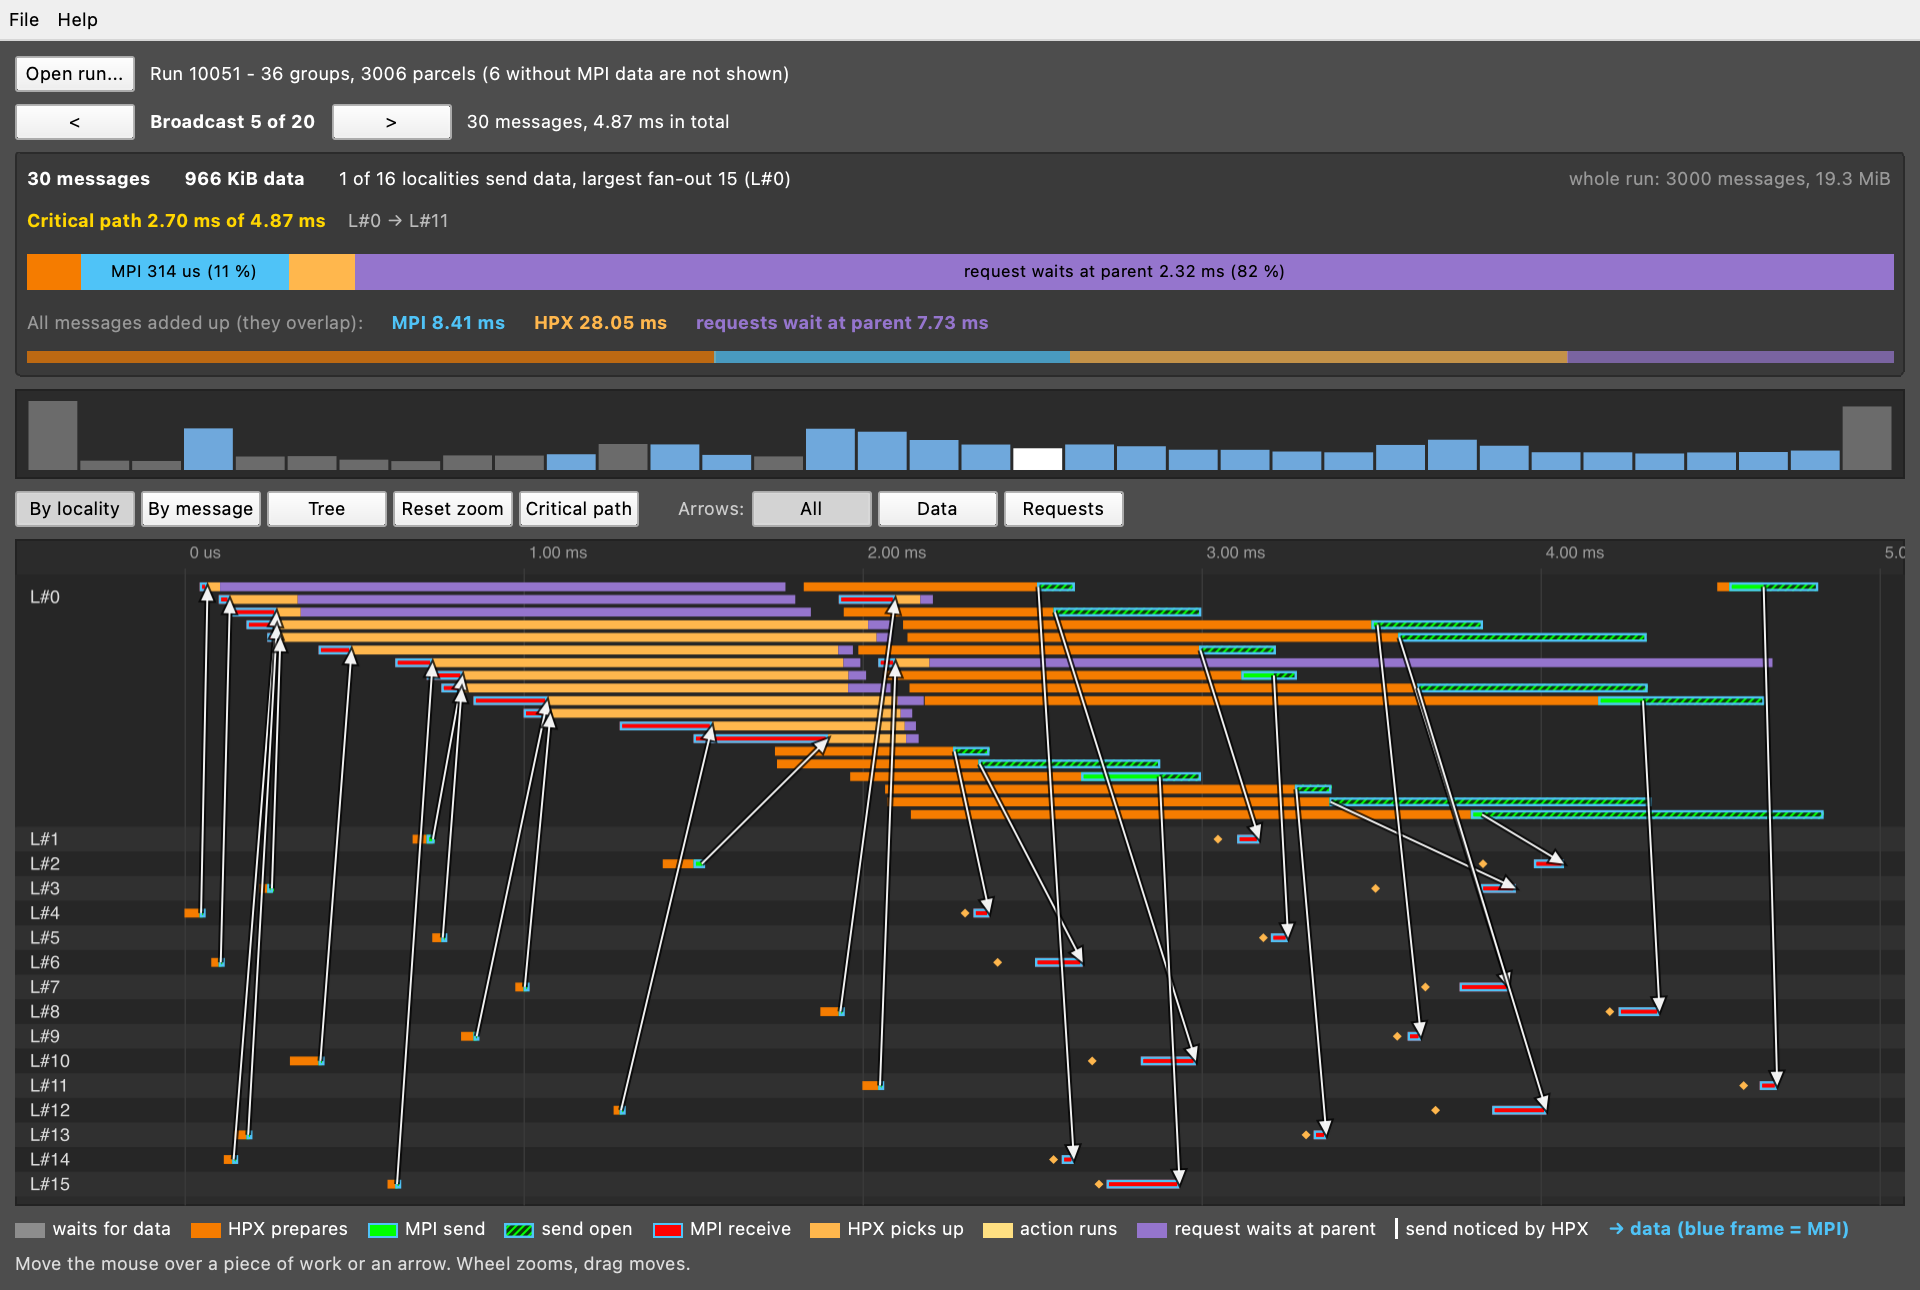
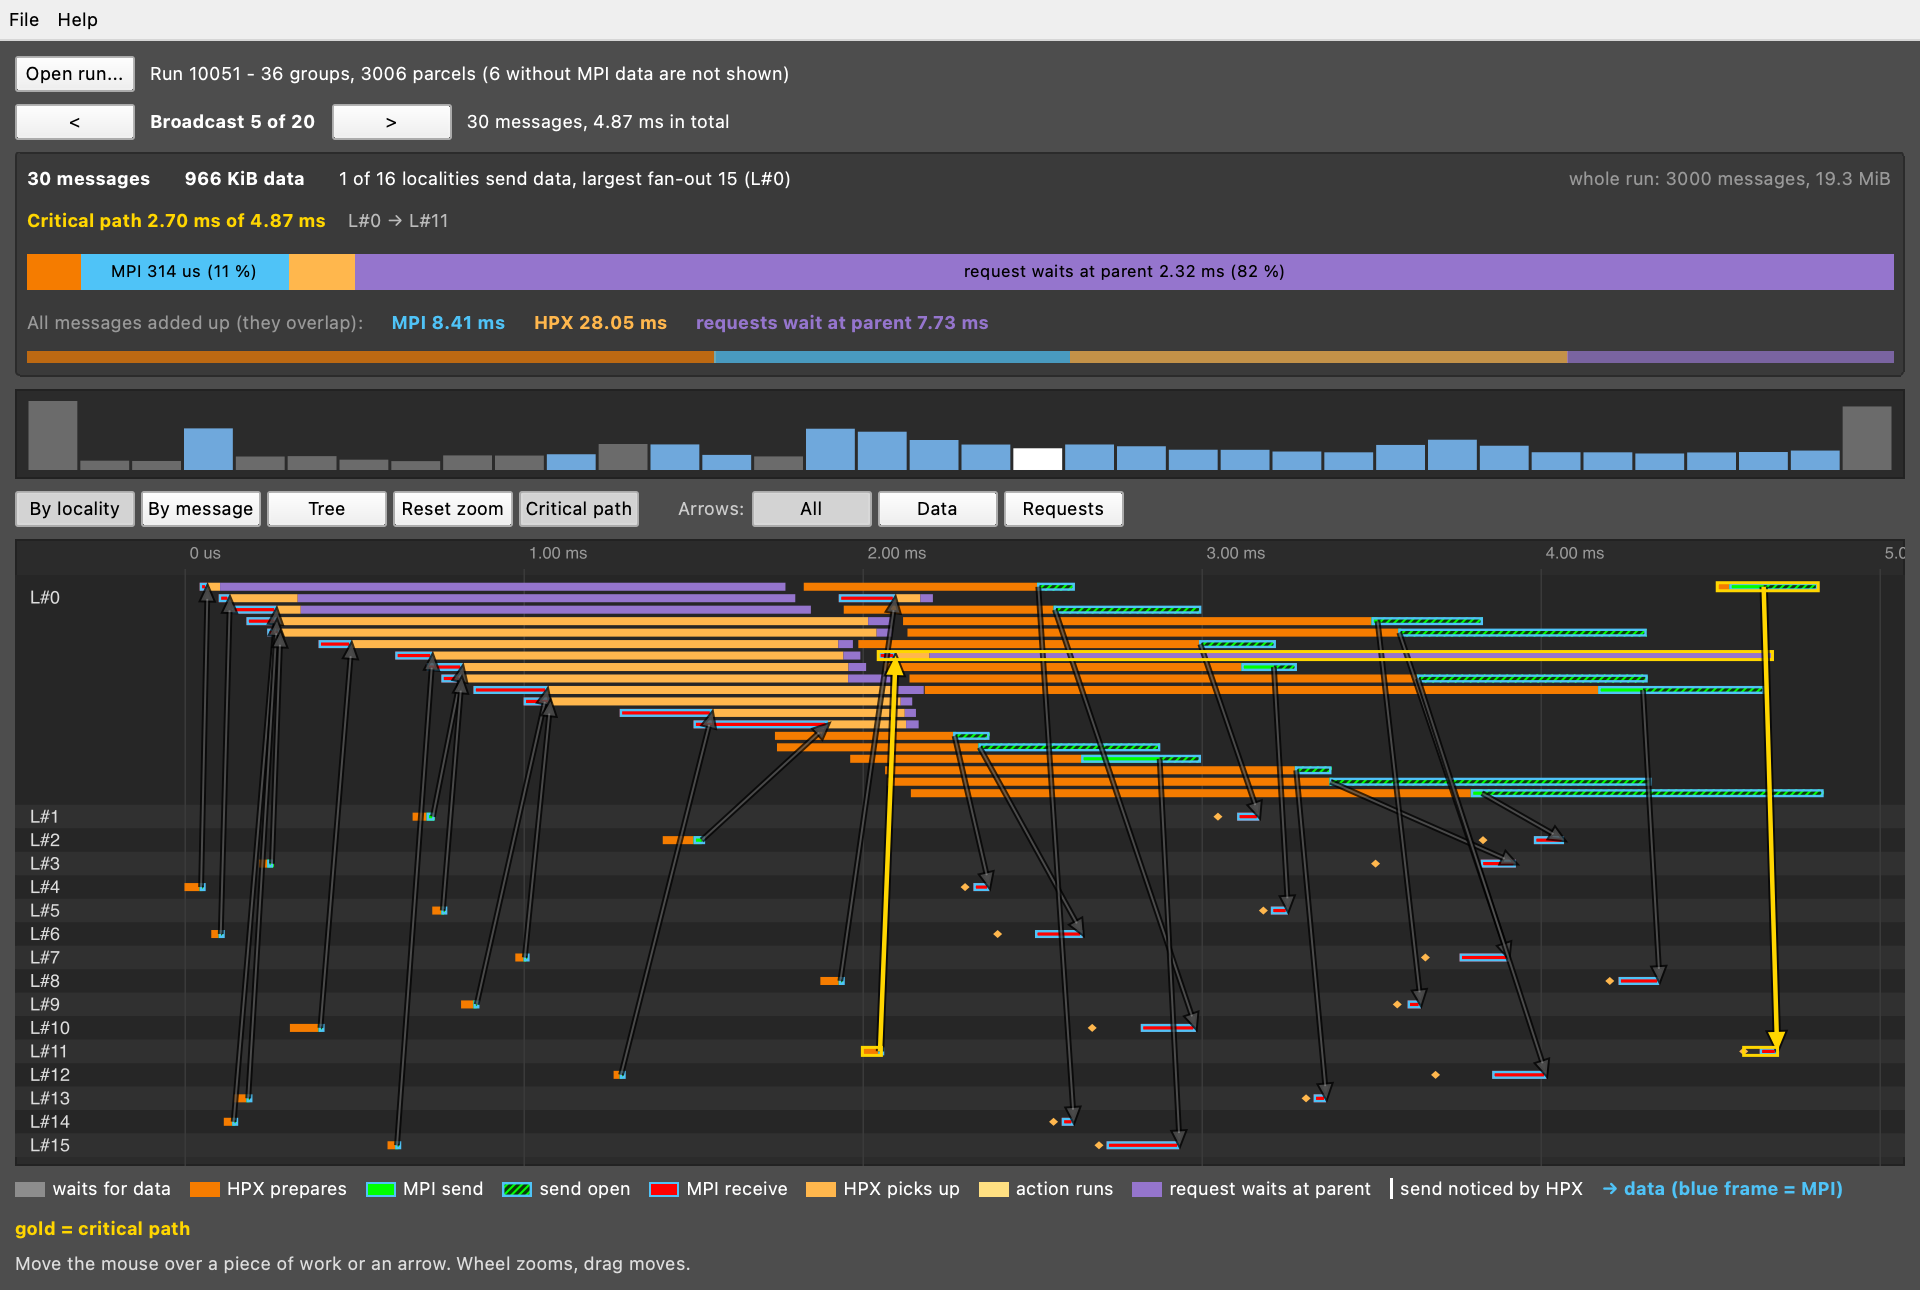
Summary switches with the Critical path button; legend wraps
With the button on (default for broadcasts) the summary shows the critical path
as real time, incl. the number of MPI hops; with it off it shows all messages
added up, per message MPI time and transfer time. New screenshots.

diff --git a/gui/qml/Main.qml b/gui/qml/Main.qml
@@ -82,6 +82,9 @@ ApplicationWindow {
     // broadcast model: who asked whom (tree) and the critical path
     property bool hasTree: false
     readonly property bool pathOn: hasTree && pathLength > 0
+    readonly property bool showPath: pathOn && criticalOn      // summary: the critical path (real time), else all messages added up
+    property int pathHops: 0
+    property real sumWire: 0        // MPI transfer only: from the end of the send call to the end of the receive
     readonly property real groupSpan: groups.length > 0 ? groups[current].end - groups[current].start : 0
     property var treeNodes: []           // { loc, depth, x }
     property var treeNodeMap: ({})
@@ -90,7 +93,7 @@ ApplicationWindow {
     property int treeDepth: 0
     property double treeStart: 0
     property int treeHover: -1
-    property bool criticalOn: false      // highlight the critical path in all views
+    property bool criticalOn: true       // highlight the critical path in all views and show it in the summary
     property var pathSegs: []            // { kind: prepare | mpi | pick | action, a, b }
     property real pathLength: 0
     property real pathStart: 0           // start and end of the path, after the first event of the group
@@ -302,11 +305,12 @@ ApplicationWindow {
         const dur = Math.max(g.end - g.start, 1);
         viewStart = g.start - dur * 0.03;
         viewEnd = g.end + dur * 0.03;
-        let wait = 0, pre = 0, mpi = 0, pick = 0, act = 0, par = 0, bytes = 0;
+        let wait = 0, pre = 0, mpi = 0, pick = 0, act = 0, par = 0, wire = 0, bytes = 0;
         for (const r of rows) {
             wait += r.tc >= 0 ? waitEnd(r) - r.tc : 0;
             pre += r.tc >= 0 ? r.t0s - waitEnd(r) : 0;
             mpi += Math.max(r.t0, r.t1, r.rq) - r.t0s;
+            wire += Math.max(r.t1 - r.t0, 0);
             pick += Math.max(r.tr - r.t1, 0);
             if (g.kind === "broadcast" && !r.big)
                 par += r.td >= 0 ? r.td - r.tr : 0;
@@ -320,6 +324,7 @@ ApplicationWindow {
         sumPick = pick;
         sumAction = act;
         sumParent = par;
+        sumWire = wire;
         sumHpx = pre + pick + act;
         sumBytes = bytes;
         // fan-out: to how many different localities does a sender send? Only the data direction counts (the large
@@ -419,6 +424,7 @@ ApplicationWindow {
         treeNodeMap = ({});
         pathSegs = [];
         pathLength = pathPrepare = pathMpi = pathPick = pathAction = pathParent = 0;
+        pathHops = 0;
         pathChain = "";
         treeHover = -1;
         const g = groups[current];
@@ -539,6 +545,7 @@ ApplicationWindow {
         pathPick = pick;
         pathAction = act;
         pathParent = par;
+        pathHops = hops.length;
         const names = hops.length > 0 ? [hops[hops.length - 1].src] : [];
         for (let i = hops.length - 1; i >= 0; --i)
             names.push(hops[i].dst);
@@ -661,7 +668,7 @@ ApplicationWindow {
         // what is in this group: how many messages, how much data, where the time goes
         Rectangle {
             Layout.fillWidth: true
-            Layout.preferredHeight: hpxWindow.pathOn ? 150 : 100
+            Layout.preferredHeight: hpxWindow.showPath ? 150 : 124
             visible: run.loaded && hpxWindow.groups.length > 0
             color: "#3a3a3a"
             border.color: "#2b2b2b"
@@ -686,7 +693,7 @@ ApplicationWindow {
                 RowLayout {
                     Layout.fillWidth: true
                     spacing: 14
-                    visible: hpxWindow.pathOn
+                    visible: hpxWindow.showPath
                     Label { color: "#ffd600"; font.bold: true
                             text: "Critical path " + hpxWindow.fmtUs(hpxWindow.pathLength) + " of " + hpxWindow.fmtUs(hpxWindow.groupSpan) }
                     Label { color: "#bbbbbb"; Layout.fillWidth: true; elide: Text.ElideRight; text: hpxWindow.pathChain }
@@ -694,7 +701,7 @@ ApplicationWindow {
                 Item {
                     Layout.fillWidth: true
                     Layout.preferredHeight: 24
-                    visible: hpxWindow.pathOn
+                    visible: hpxWindow.showPath
                     readonly property real total: Math.max(hpxWindow.pathPrepare + hpxWindow.pathMpi + hpxWindow.pathPick + hpxWindow.pathParent + hpxWindow.pathAction, 1e-9)
                     Repeater {
                         model: [
@@ -723,7 +730,7 @@ ApplicationWindow {
                                 color: "black"
                                 font.pixelSize: 11
                                 visible: parent.width > 100
-                                text: modelData.name + " " + hpxWindow.fmtUs(modelData.v) + " (" + (100 * modelData.v / parent.parent.total).toFixed(0) + " %)"
+                                text: modelData.name + (modelData.name === "MPI" && hpxWindow.pathHops > 1 ? " (" + hpxWindow.pathHops + " hops)" : "") + " " + hpxWindow.fmtUs(modelData.v) + " (" + (100 * modelData.v / parent.parent.total).toFixed(0) + " %)"
                             }
                         }
                     }
@@ -732,7 +739,7 @@ ApplicationWindow {
                 RowLayout {
                     Layout.fillWidth: true
                     spacing: 18
-                    Label { color: "#999999"; text: hpxWindow.pathOn ? "All messages added up (they overlap):" : "All messages added up:" }
+                    Label { color: "#999999"; text: "All messages added up (they overlap):" }
                     Label { color: hpxWindow.mpiColor; font.bold: true; text: "MPI " + hpxWindow.fmtUs(hpxWindow.sumMpi) }
                     Label { color: hpxWindow.recvColor; font.bold: true; text: "HPX " + hpxWindow.fmtUs(hpxWindow.sumHpx) }
                     Label { color: hpxWindow.waitColor; font.bold: true; visible: hpxWindow.sumWait > 0
@@ -743,7 +750,7 @@ ApplicationWindow {
                 }
                 Item {
                     Layout.fillWidth: true
-                    Layout.preferredHeight: hpxWindow.pathOn ? 8 : 24
+                    Layout.preferredHeight: hpxWindow.showPath ? 8 : 24
                     readonly property real total: Math.max(hpxWindow.sumWait + hpxWindow.sumPre + hpxWindow.sumMpi + hpxWindow.sumPick + hpxWindow.sumParent + hpxWindow.sumAction, 1e-9)
                     Repeater {
                         model: [
@@ -768,16 +775,29 @@ ApplicationWindow {
                             width: Math.max(parent.width * modelData.v / parent.total, 0)
                             height: parent.height
                             color: modelData.c
-                            opacity: hpxWindow.pathOn ? 0.7 : 1
+                            opacity: hpxWindow.showPath ? 0.7 : 1
                             Label {
                                 anchors.centerIn: parent
                                 color: "black"
                                 font.pixelSize: 11
-                                visible: parent.width > 90 && !hpxWindow.pathOn
+                                visible: parent.width > 90 && !hpxWindow.showPath
                                 text: modelData.name + " " + hpxWindow.fmtUs(modelData.v) + " (" + hpxWindow.pct(modelData.v) + ")"
                             }
                         }
                     }
+                }
+                // per message: the MPI time of a message is its whole life in MPI; the transfer is only the time on the wire
+                RowLayout {
+                    Layout.fillWidth: true
+                    spacing: 18
+                    visible: !hpxWindow.showPath && hpxWindow.rows.length > 0
+                    Label { color: "#999999"; text: "per message:" }
+                    Label { color: hpxWindow.mpiColor; font.bold: true
+                            text: "MPI " + hpxWindow.fmtUs(hpxWindow.sumMpi / Math.max(hpxWindow.rows.length, 1))
+                                  + " (transfer " + hpxWindow.fmtUs(hpxWindow.sumWire / Math.max(hpxWindow.rows.length, 1)) + ")" }
+                    Label { color: hpxWindow.recvColor; font.bold: true
+                            text: "HPX " + hpxWindow.fmtUs(hpxWindow.sumHpx / Math.max(hpxWindow.rows.length, 1)) }
+                    Item { Layout.fillWidth: true }
                 }
             }
         }
@@ -1325,8 +1345,8 @@ ApplicationWindow {
             }
         }
 
-        // legend and the details of what is under the mouse
-        RowLayout {
+        // legend (wraps in a narrow window) and the details of what is under the mouse
+        Flow {
             Layout.fillWidth: true
             visible: run.loaded
             spacing: 12
@@ -1353,7 +1373,6 @@ ApplicationWindow {
             Row { spacing: 5; Rectangle { width: 2; height: 14; color: "white" } Label { color: "white"; text: "send noticed by HPX" } }
             Label { color: hpxWindow.mpiColor; font.bold: true; text: "→ data (blue frame = MPI)"; visible: hpxWindow.viewMode === "locality" }
             Label { color: "#ffd600"; font.bold: true; text: "gold = critical path"; visible: hpxWindow.criticalOn && hpxWindow.hasTree }
-            Item { Layout.fillWidth: true }
         }
         Label {
             Layout.fillWidth: true

diff --git a/gui/src/main.cpp b/gui/src/main.cpp
@@ -85,6 +85,8 @@ int main(int argc, char *argv[])
     }
     if (rendering) {
         auto *window = qobject_cast<QQuickWindow *>(root);
+        if (qEnvironmentVariable("EDUHPX_CRITICAL") == QLatin1String("0"))
+            root->setProperty("criticalOn", false);   // preview of the summary without the critical path
         // the views are named after the positional arguments that follow the file
         QStringList specs = args.mid(1);
         wait(500);
